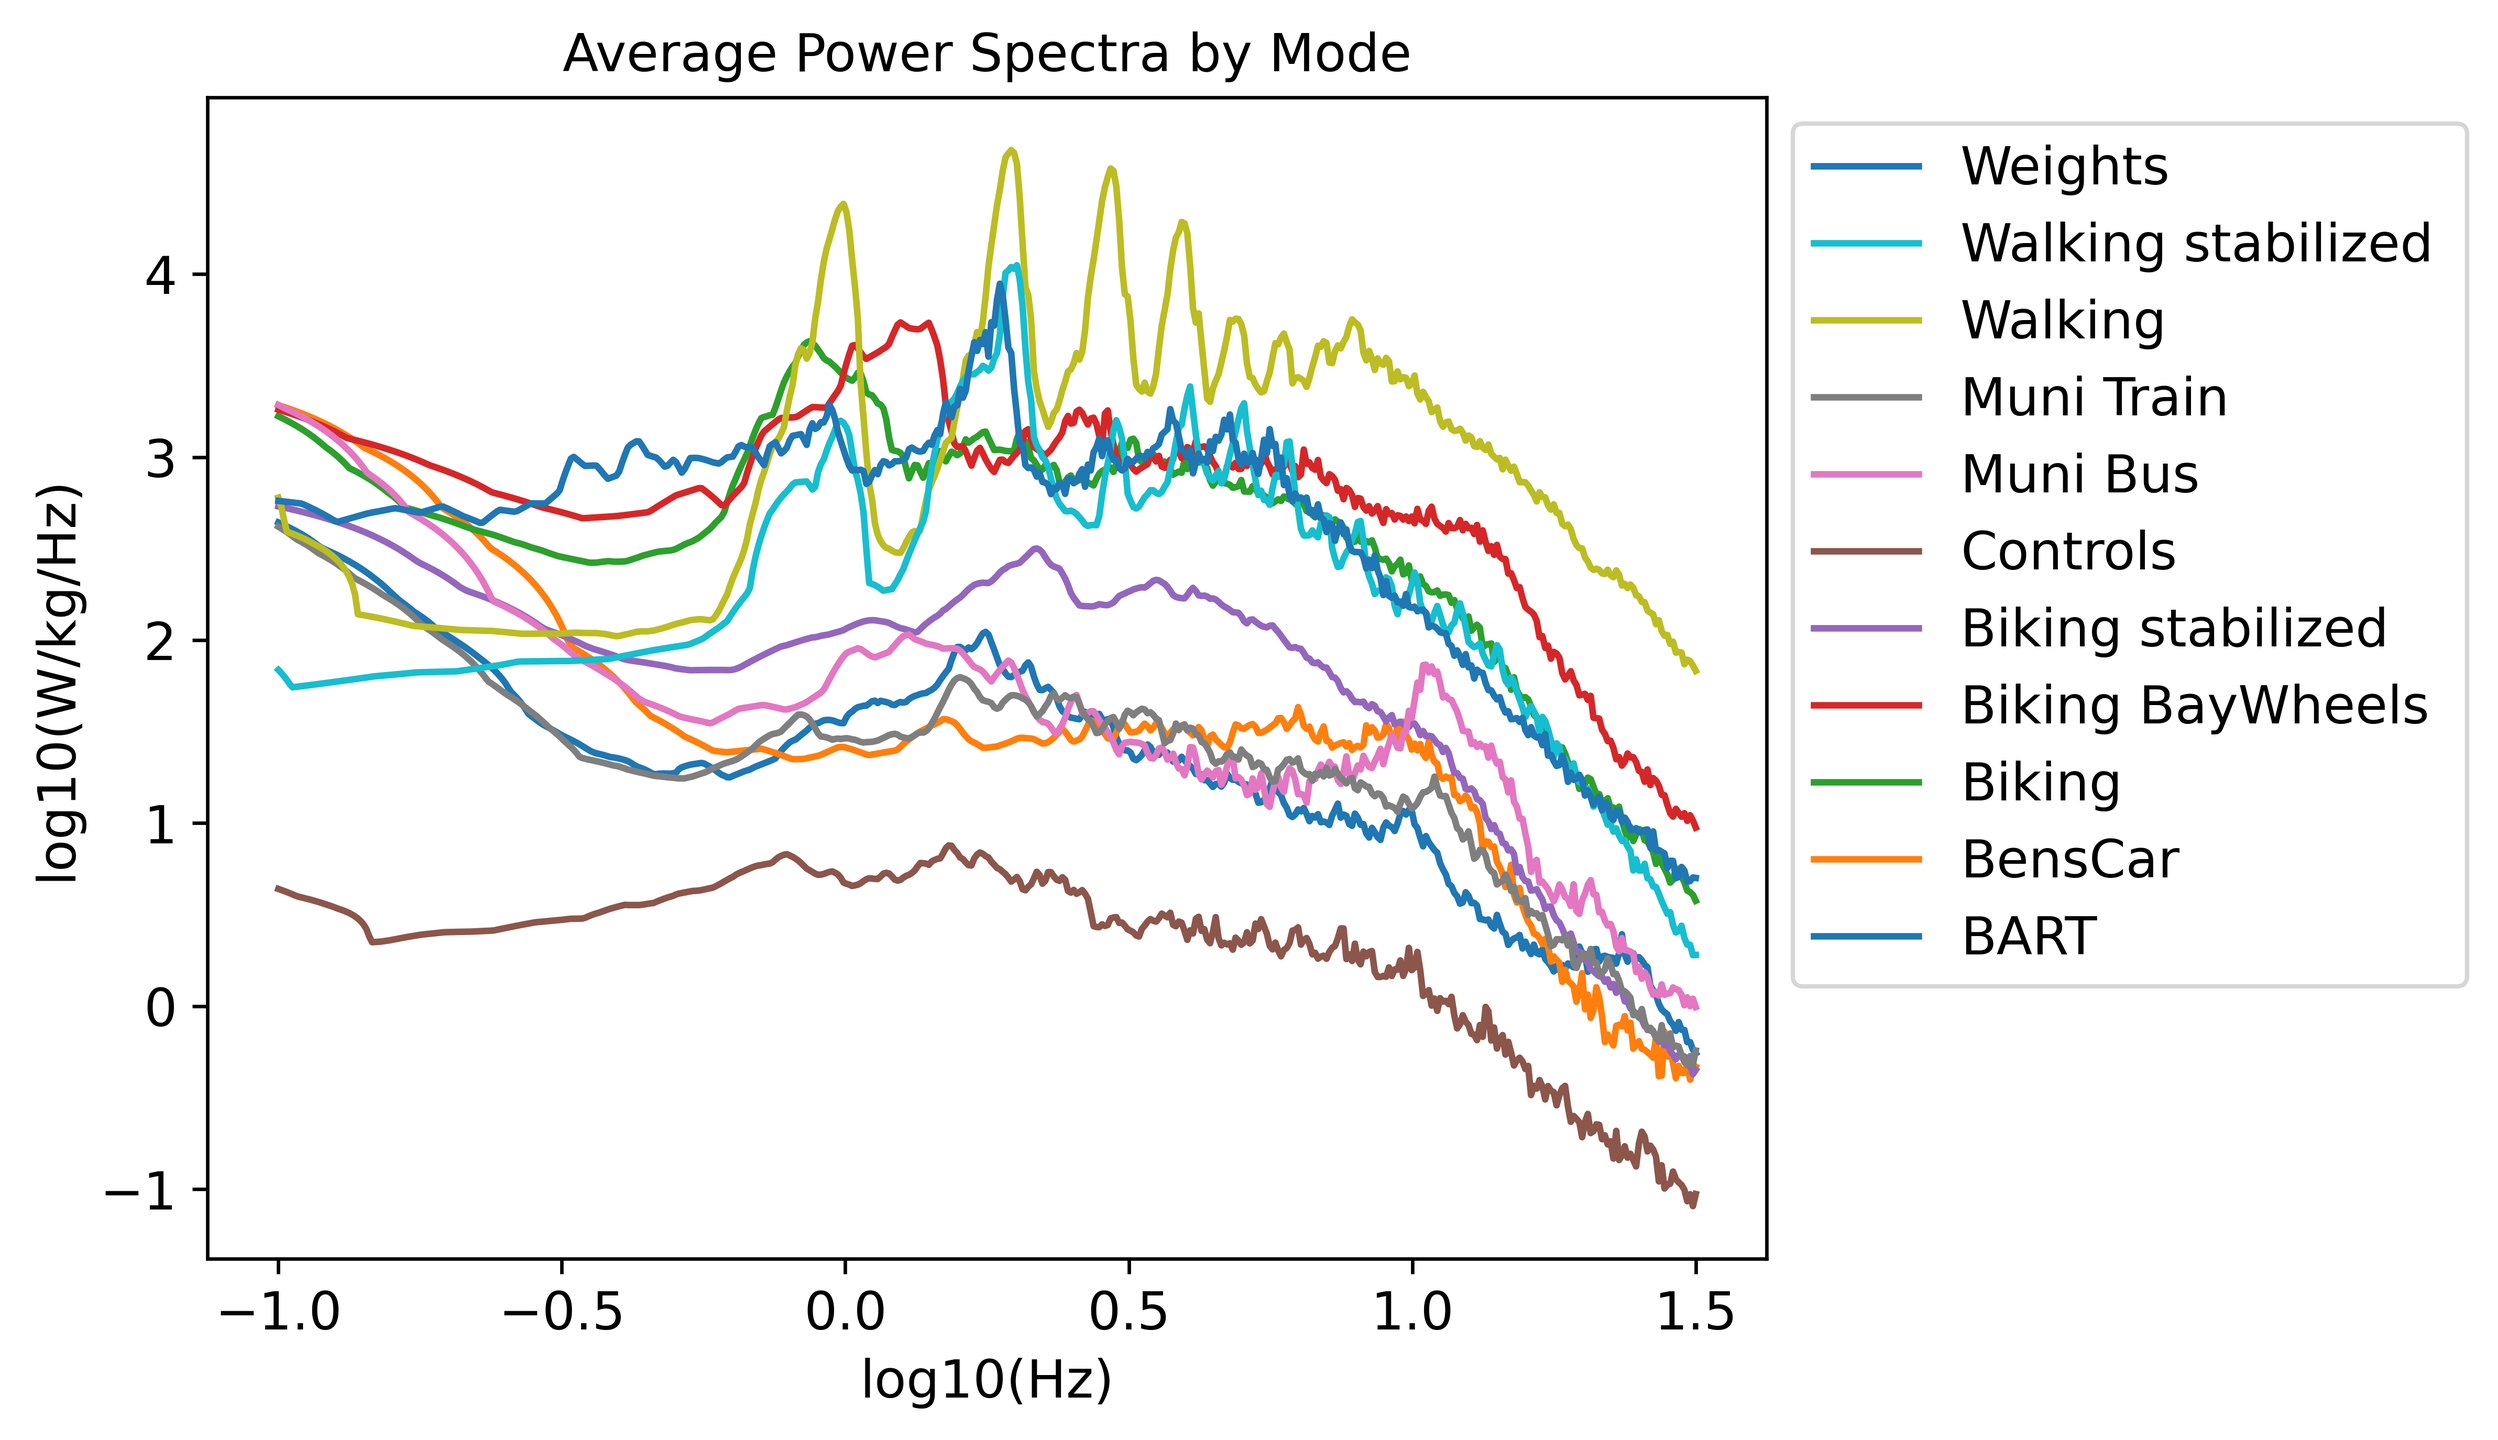
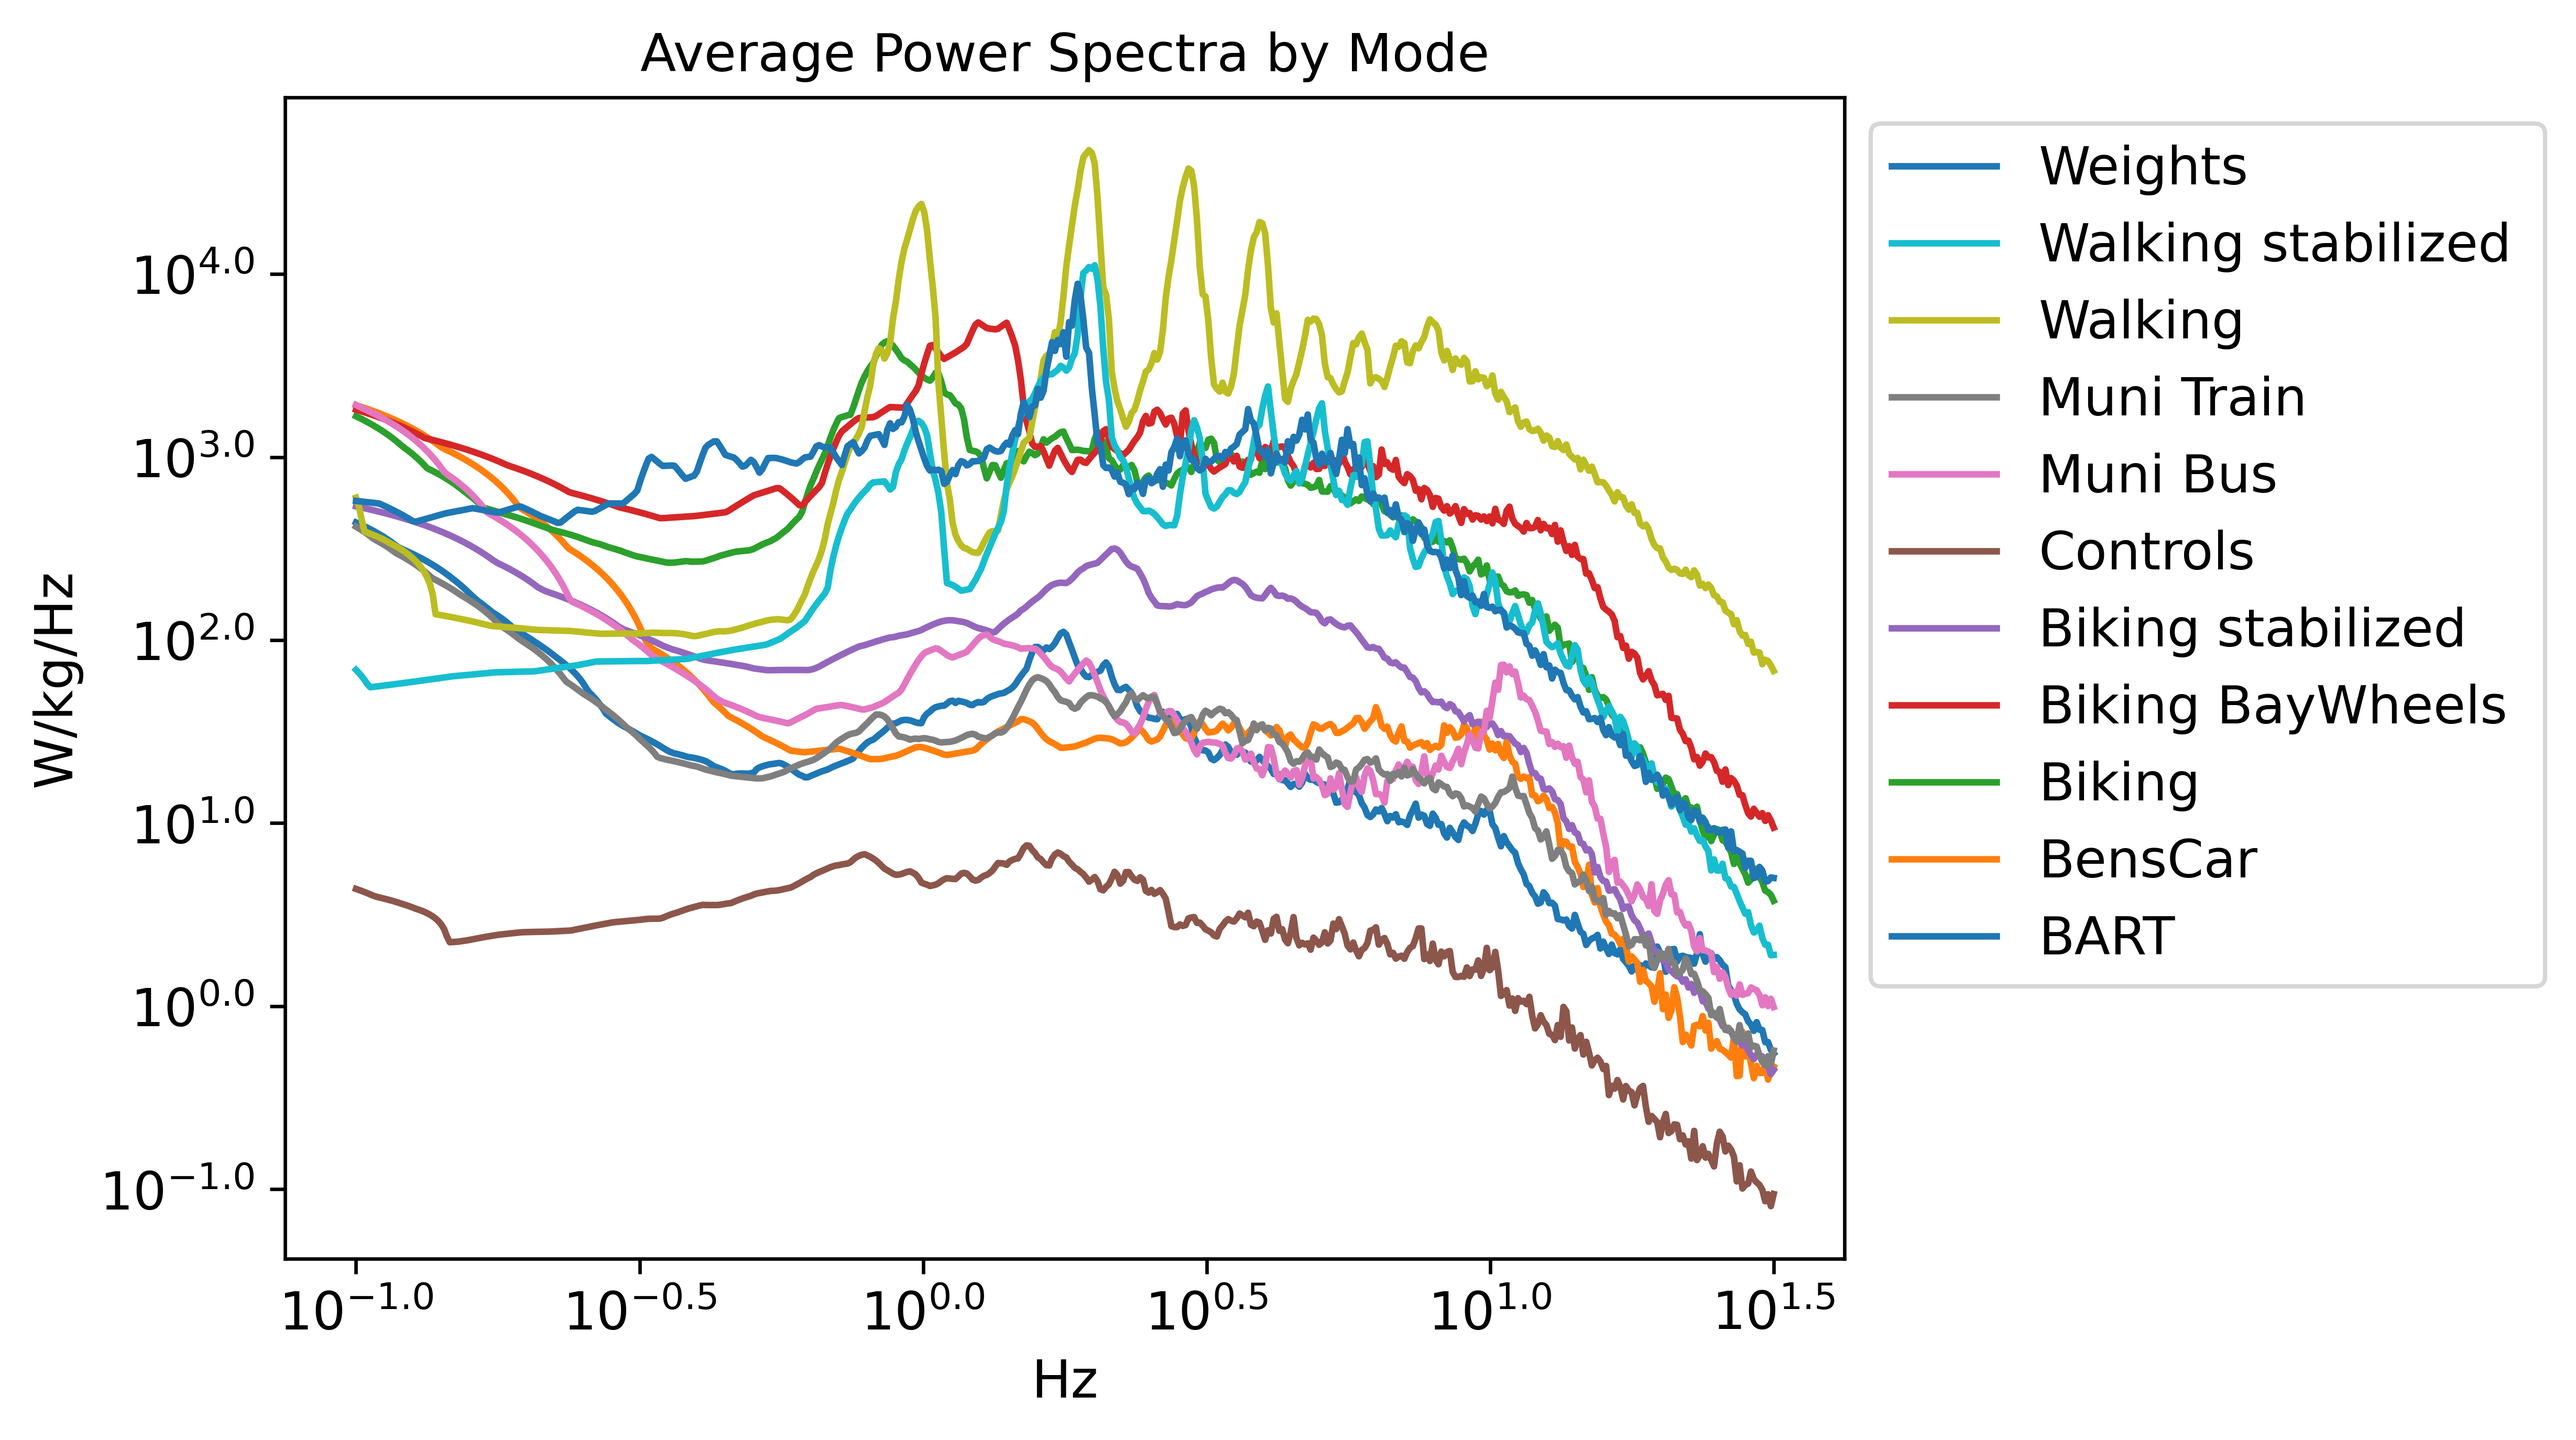
Cleaner log axis labels

diff --git a/ext/plot_util.py b/ext/plot_util.py
@@ -9,7 +9,7 @@ import re
 
 def generic_plot(data, kind='bar', unstacked=False, color=None, title='', ylabel='', xlabel='',
                  fontsize=12, filename=None, output_directory='', fmt='png', rot=0, ylim=None, style=None, legend=True,
-                 long_labels=False, linestyle=None, colormap=None, xlim=None):
+                 long_labels=False, linestyle=None, colormap=None, xlim=None, logx=False, logy=False):
         
     
     if (kind == 'bar' or kind == 'area' or kind == 'barh') and unstacked == False:
@@ -38,6 +38,14 @@ def generic_plot(data, kind='bar', unstacked=False, color=None, title='', ylabel
         # xtick_labels = ax.get_xticklabels()
         xtick_labels = [re.sub(' ', '\n', str(x)) for x in data.index]
         ax.set_xticklabels(xtick_labels, fontsize=fontsize - 2)
+
+    if logx:
+        ticks = ax.get_xticks()
+        ax.set_xticklabels(['$10^{' + str(x) + '}$' for x in ticks])
+
+    if logy:
+        ticks = ax.get_yticks()
+        ax.set_yticklabels(['$10^{' + str(x) + '}$' for x in ticks])
 
     if legend:
         handles, labels = ax.get_legend_handles_labels()

diff --git a/analyze_functionalized.py b/analyze_functionalized.py
@@ -90,8 +90,8 @@ agg_stats_df.to_csv(outputdir / 'Aggregate Stats by Trip.csv')
 # Equivalent to geometric rather than arithmetic mean
 # Smooth after averaging
 combined_bycat_log = accelerometers.smooth(combined.map(np.log10).groupby('Category', axis=1).mean(), smooth_when_plot)
-plot_util.generic_plot(combined_bycat_log.rename(np.log10, axis=0), kind='line', xlabel='log10(Hz)', ylabel='log10(W/kg/Hz)',
-                       output_directory=outputdir, title='Average Power Spectra by Mode')
+plot_util.generic_plot(combined_bycat_log.rename(np.log10, axis=0), kind='line', xlabel='Hz', ylabel='W/kg/Hz',
+                       output_directory=outputdir, title='Average Power Spectra by Mode', logx=True, logy=True)
 
 grouped_stats = agg_stats_df.T.groupby(level=0).mean()
 grouped_stats.to_csv(outputdir / 'Grouped Aggregated Stats by Trip.csv')
